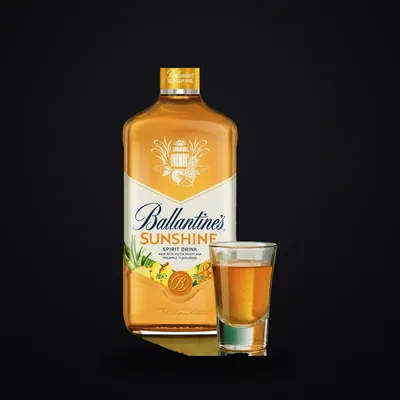
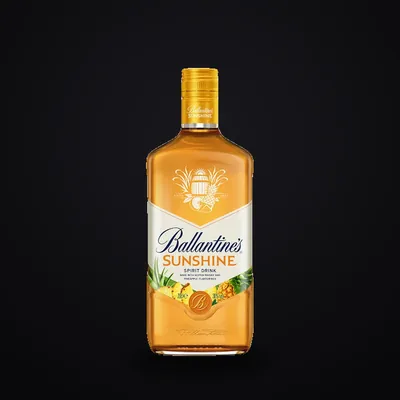
Party, Eco Bag e a Ballantine's sem copo: os 115 itens com foto
Leque e eco bag entraram pelo caminho que preserva o fundo. O mármore escuro
sob o leque e a cortina roxa atrás da eco bag não são sobra de cenário: são
duas fotos de estúdio do próprio bar, e o fundo delas é a identidade.
Recortar teria trocado isso por um degradê genérico.

Com as duas, os 115 itens do cardápio têm foto — não sobrou nenhum card com
a inicial em neon.

A Ballantine's tinha o copo de dose ao lado, e desde a troca das cinco
garrafas a aba Doses carregava dois tipos de composição. A foto nova é só a
garrafa e entrou pelo mesmo caminho das outras cinco. Sobrou só o Absolut
com o copo.

Party ficou sem descrição, a pedido do bar: a que estava lá descrevia um
drink, e Party é leque.

Folgas de enquadramento inalteradas — lateral 6,9%, topo 16,9%, base 9,5% —
então os limites de proporção do card seguem valendo. Conferido em Doses e
Outros: nenhum item cortado, nenhum nome cortado, seis cards por tela, sem
erro de console e sem 404.

Claude-Session: https://claude.ai/code/session_017Uybq4j8vF94eMWurLN7Uh

Changed region(s): [[0.3, 0.15, 0.69, 0.9]]

diff --git a/REVISAR.md b/REVISAR.md
@@ -482,11 +482,18 @@ A descrição ainda é um palpite — "Leque do Mitte, para dançar sem derreter
 a mesma do Leque Mitte Bar. Dois leques com a mesma frase e preços diferentes
 (R$ 60 e R$ 32) pedem uma palavra do bar sobre o que distingue os dois.
 
-### Party e Eco Bag continuam sem foto
+### Party e Eco Bag entraram — e o cardápio ficou completo
 
-As fotos existem — o bar mandou o leque laranja-e-rosa sobre o mármore e a
-eco bag sobre a cortina roxa —, mas chegaram nesta sessão só como imagem na
-conversa, não como arquivo que o pipeline consiga abrir. Reenviadas como
-anexo, as duas entram em uma rodada: a eco bag pelo caminho das fotos de bar,
-que preserva o fundo (a cortina roxa é da identidade), e o leque pelo recorte
-sobre o degradê escuro, porque o mármore do piso não acrescenta nada.
+As duas vieram pelo caminho que preserva o fundo. O mármore escuro sob o
+leque e a cortina roxa atrás da eco bag não são sobra de cenário: são as duas
+fotos de estúdio do próprio bar, e o fundo delas é a identidade. Recortar
+teria trocado isso por um degradê genérico.
+
+**Com elas, os 115 itens do cardápio têm foto.**
+
+### A Ballantine's perdeu o copo
+
+Quando as cinco garrafas novas entraram, a aba Doses ficou com dois tipos de
+composição: cinco só com a garrafa e três com o copo de dose ao lado. O bar
+mandou a Ballantine's sozinha, que entrou pelo mesmo caminho das outras
+cinco. Sobrou **só o Absolut** com o copo — uma foto resolve.
